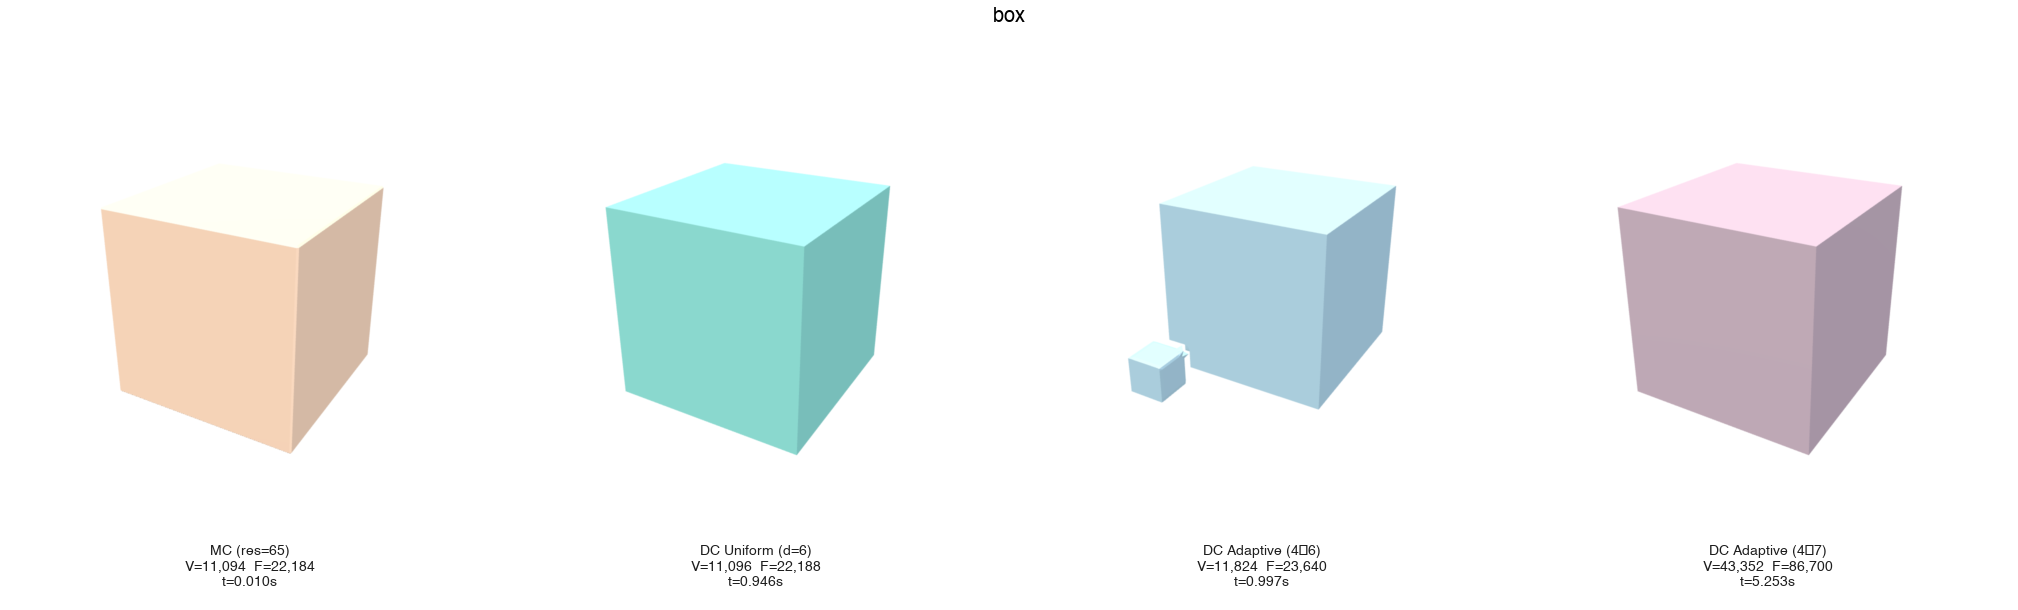
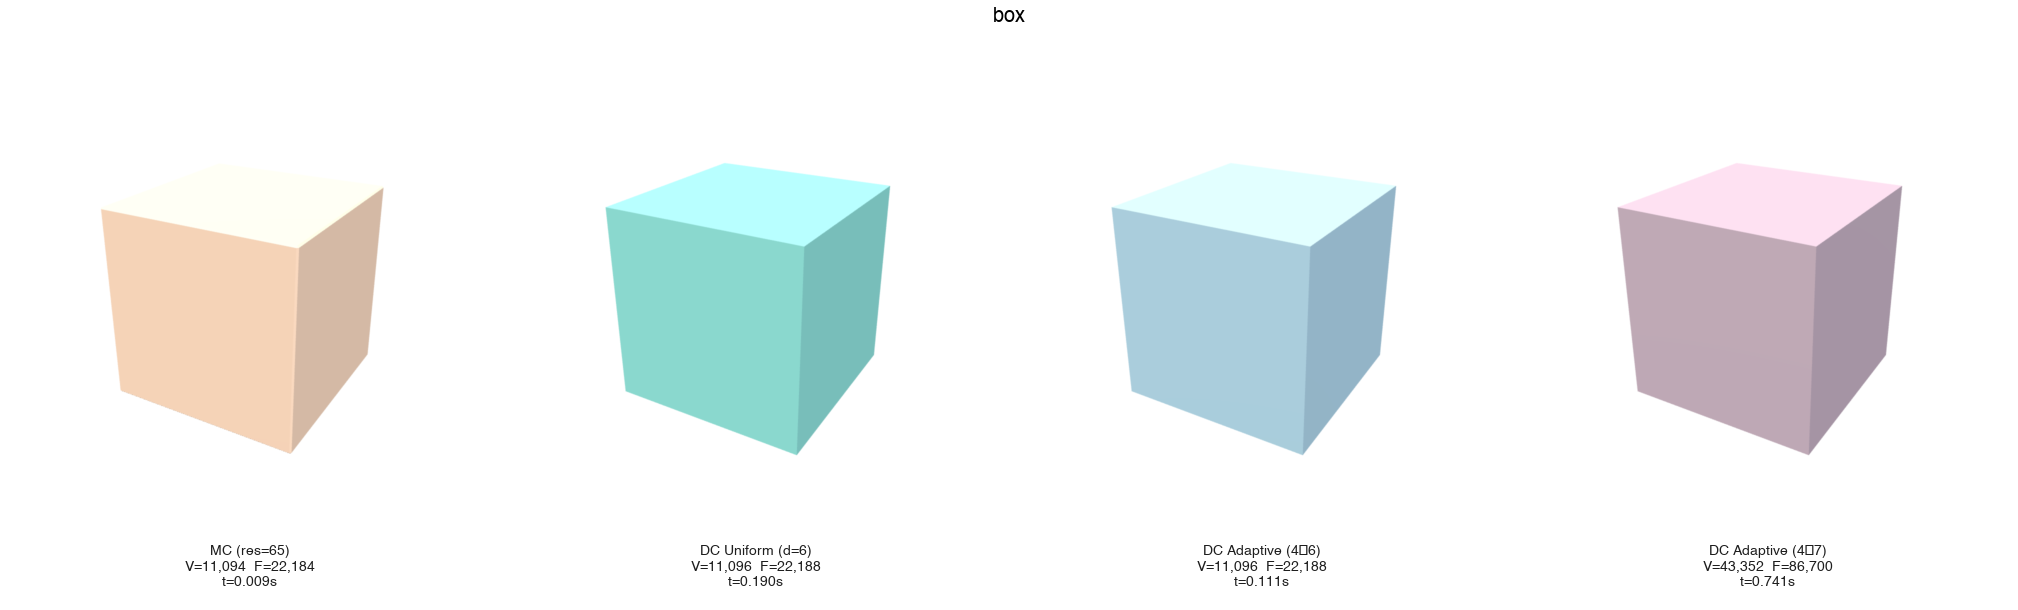
Update benchmark images and report with latest results

Changed region(s): [[0.5307, 0.2492, 0.6868, 0.7475], [0.5932, 0.9033, 0.6556, 0.9656], [0.8741, 0.9344, 0.9054, 0.9656]]

diff --git a/output/benchmark_report.md b/output/benchmark_report.md
@@ -5,50 +5,50 @@
 
 | Shape | Method | V | F | Time (s) | Manifold | Watertight | Euler | Mean SDF Err | Min∠ Mean | Min∠ P5 |
 |-------|--------|--:|--:|--------:|:--------:|:----------:|-----:|-----------:|--------:|------:|
-| sphere | MC (res=65) | 8,598 | 17,192 | 0.007 | ✓ | ✓ | 2 | 9.63e-05 | 31.6° | 5.7° |
-|  | DC Uniform (d=6) | 8,600 | 17,196 | 0.717 | ✓ | ✓ | 2 | 4.57e-17 | 45.2° | 33.3° |
-|  | DC Adaptive (4→6) | 536 | 1,068 | 0.051 | ✓ | ✓ | 2 | 8.85e-05 | 43.7° | 30.5° |
-|  | DC Adaptive (4→7) | 536 | 1,068 | 0.048 | ✓ | ✓ | 2 | 8.85e-05 | 43.7° | 30.5° |
+| sphere | MC (res=65) | 8,598 | 17,192 | 0.006 | ✓ | ✓ | 2 | 9.63e-05 | 31.6° | 5.7° |
+|  | DC Uniform (d=6) | 8,600 | 17,196 | 0.083 | ✓ | ✓ | 2 | 4.57e-17 | 45.2° | 33.3° |
+|  | DC Adaptive (4→6) | 536 | 1,068 | 0.002 | ✓ | ✓ | 2 | 8.85e-05 | 43.7° | 30.5° |
+|  | DC Adaptive (4→7) | 536 | 1,068 | 0.002 | ✓ | ✓ | 2 | 8.85e-05 | 43.7° | 30.5° |
 | torus | MC (res=65) | 6,448 | 12,896 | 0.004 | ✓ | ✓ | 0 | 2.34e-04 | 32.0° | 3.7° |
-|  | DC Uniform (d=6) | 6,448 | 12,896 | 0.867 | ✓ | ✓ | 0 | 1.55e-05 | 41.0° | 26.2° |
-|  | DC Adaptive (4→6) | 6,448 | 12,896 | 0.387 | ✓ | ✓ | 0 | 1.55e-05 | 41.0° | 26.2° |
-|  | DC Adaptive (4→7) | 6,448 | 12,896 | 0.387 | ✓ | ✓ | 0 | 1.55e-05 | 41.0° | 26.2° |
+|  | DC Uniform (d=6) | 6,448 | 12,896 | 0.133 | ✓ | ✓ | 0 | 1.55e-05 | 41.0° | 26.2° |
+|  | DC Adaptive (4→6) | 6,448 | 12,896 | 0.036 | ✓ | ✓ | 0 | 1.55e-05 | 41.0° | 26.2° |
+|  | DC Adaptive (4→7) | 6,448 | 12,896 | 0.036 | ✓ | ✓ | 0 | 1.55e-05 | 41.0° | 26.2° |
 
 ## Sharp Features
 
 | Shape | Method | V | F | Time (s) | Manifold | Watertight | Euler | Mean SDF Err | Min∠ Mean | Min∠ P5 |
 |-------|--------|--:|--:|--------:|:--------:|:----------:|-----:|-----------:|--------:|------:|
-| box | MC (res=65) | 11,094 | 22,184 | 0.010 | ✓ | ✓ | 2 | 0.00e+00 | 44.1° | 45.0° |
-|  | DC Uniform (d=6) | 11,096 | 22,188 | 0.946 | ✓ | ✓ | 2 | 7.51e-10 | 44.5° | 39.8° |
-|  | DC Adaptive (4→6) | 11,824 | 23,640 | 0.997 | ✓ | ✓ | 4 | 2.04e-02 | 44.2° | 39.8° |
-|  | DC Adaptive (4→7) | 43,352 | 86,700 | 5.253 | ✓ | ✓ | 2 | 1.92e-10 | 44.8° | 45.0° |
+| box | MC (res=65) | 11,094 | 22,184 | 0.009 | ✓ | ✓ | 2 | 0.00e+00 | 44.1° | 45.0° |
+|  | DC Uniform (d=6) | 11,096 | 22,188 | 0.190 | ✓ | ✓ | 2 | 7.51e-10 | 44.5° | 39.8° |
+|  | DC Adaptive (4→6) | 11,096 | 22,188 | 0.111 | ✓ | ✓ | 2 | 7.51e-10 | 44.5° | 39.8° |
+|  | DC Adaptive (4→7) | 43,352 | 86,700 | 0.741 | ✓ | ✓ | 2 | 1.92e-10 | 44.8° | 45.0° |
 | chamfered_sphere | MC (res=65) | 7,062 | 14,120 | 0.012 | ✓ | ✓ | 2 | 2.58e-04 | 35.5° | 6.1° |
-|  | DC Uniform (d=6) | 7,064 | 14,124 | 0.969 | ✓ | ✓ | 2 | 3.42e-05 | 43.1° | 22.1° |
-|  | DC Adaptive (4→6) | 7,064 | 14,124 | 0.488 | ✓ | ✓ | 2 | 3.42e-05 | 43.1° | 22.1° |
-|  | DC Adaptive (4→7) | 27,656 | 55,308 | 2.356 | ✓ | ✓ | 2 | 4.58e-05 | 44.2° | 28.7° |
-| cylinder | MC (res=65) | 4,326 | 8,648 | 0.005 | ✓ | ✓ | 2 | 2.12e-04 | 34.9° | 4.1° |
-|  | DC Uniform (d=6) | 4,328 | 8,652 | 0.884 | ✓ | ✓ | 2 | 8.94e-05 | 38.1° | 27.2° |
-|  | DC Adaptive (4→6) | 4,328 | 8,652 | 0.335 | ✓ | ✓ | 2 | 8.94e-05 | 38.1° | 27.2° |
-|  | DC Adaptive (4→7) | 17,488 | 34,972 | 1.929 | ✓ | ✓ | 2 | 1.07e-05 | 38.3° | 28.5° |
-| mechanical_part | MC (res=65) | 4,334 | 8,680 | 0.020 | ✓ | ✓ | -6 | 3.25e-04 | 40.3° | 10.1° |
-|  | DC Uniform (d=6) | 4,328 | 8,668 | 0.990 | ✓ | ✓ | -6 | 5.65e-05 | 41.0° | 31.9° |
-|  | DC Adaptive (4→6) | 4,328 | 8,668 | 0.335 | ✓ | ✓ | -6 | 5.65e-05 | 41.0° | 31.9° |
-|  | DC Adaptive (4→7) | 19,336 | 38,684 | 1.918 | ✓ | ✓ | -6 | 9.51e-06 | 39.7° | 26.9° |
+|  | DC Uniform (d=6) | 7,064 | 14,124 | 0.182 | ✓ | ✓ | 2 | 3.42e-05 | 43.1° | 22.1° |
+|  | DC Adaptive (4→6) | 7,064 | 14,124 | 0.059 | ✓ | ✓ | 2 | 3.42e-05 | 43.1° | 22.1° |
+|  | DC Adaptive (4→7) | 27,656 | 55,308 | 0.322 | ✓ | ✓ | 2 | 4.58e-05 | 44.2° | 28.7° |
+| cylinder | MC (res=65) | 4,326 | 8,648 | 0.004 | ✓ | ✓ | 2 | 2.12e-04 | 34.9° | 4.1° |
+|  | DC Uniform (d=6) | 4,328 | 8,652 | 0.124 | ✓ | ✓ | 2 | 8.94e-05 | 38.1° | 27.2° |
+|  | DC Adaptive (4→6) | 4,328 | 8,652 | 0.031 | ✓ | ✓ | 2 | 8.94e-05 | 38.1° | 27.2° |
+|  | DC Adaptive (4→7) | 17,488 | 34,972 | 0.186 | ✓ | ✓ | 2 | 1.07e-05 | 38.3° | 28.5° |
+| mechanical_part | MC (res=65) | 4,334 | 8,680 | 0.021 | ✓ | ✓ | -6 | 3.25e-04 | 40.3° | 10.1° |
+|  | DC Uniform (d=6) | 4,328 | 8,668 | 0.237 | ✓ | ✓ | -6 | 5.65e-05 | 41.0° | 31.9° |
+|  | DC Adaptive (4→6) | 4,328 | 8,668 | 0.042 | ✓ | ✓ | -6 | 5.65e-05 | 41.0° | 31.9° |
+|  | DC Adaptive (4→7) | 19,336 | 38,684 | 0.246 | ✓ | ✓ | -6 | 9.51e-06 | 39.7° | 26.9° |
 
 ## Thin Features
 
 | Shape | Method | V | F | Time (s) | Manifold | Watertight | Euler | Mean SDF Err | Min∠ Mean | Min∠ P5 |
 |-------|--------|--:|--:|--------:|:--------:|:----------:|-----:|-----------:|--------:|------:|
-| thin_shell_hemi | MC (res=65) | 11,010 | 22,016 | 0.006 | ✓ | ✓ | 2 | 6.86e-05 | 31.4° | 1.5° |
-|  | DC Uniform (d=6) | 10,620 | 21,236 | 0.916 | ✓ | ✓ | 2 | 8.29e-09 | 44.2° | 30.5° |
-|  | DC Adaptive (4→6) | 10,620 | 21,236 | 0.627 | ✓ | ✓ | 2 | 8.29e-09 | 44.2° | 30.5° |
-|  | DC Adaptive (4→7) | 42,996 | 85,988 | 2.988 | ✓ | ✓ | 2 | 5.71e-13 | 43.7° | 30.8° |
+| thin_shell_hemi | MC (res=65) | 11,010 | 22,016 | 0.005 | ✓ | ✓ | 2 | 6.86e-05 | 31.4° | 1.5° |
+|  | DC Uniform (d=6) | 10,620 | 21,236 | 0.142 | ✓ | ✓ | 2 | 8.29e-09 | 44.2° | 30.5° |
+|  | DC Adaptive (4→6) | 10,620 | 21,236 | 0.054 | ✓ | ✓ | 2 | 8.29e-09 | 44.2° | 30.5° |
+|  | DC Adaptive (4→7) | 42,996 | 85,988 | 0.336 | ✓ | ✓ | 2 | 5.71e-13 | 43.7° | 30.8° |
 
 ## Complex Geometry (Mesh-based SDF)
 
 | Shape | Method | V | F | Time (s) | Manifold | Watertight | Euler | Mean SDF Err | Min∠ Mean | Min∠ P5 |
 |-------|--------|--:|--:|--------:|:--------:|:----------:|-----:|-----------:|--------:|------:|
-| simjeb_148 | MC (res=65) | 6,102 | 12,248 | 0.355 | ✓ | ✓ | -22 | 1.35e-03 | 34.6° | 6.3° |
-|  | DC Uniform (d=6) | 6,080 | 12,204 | 3.240 | ✓ | ✓ | -22 | 3.39e-04 | 33.1° | 8.3° |
-|  | DC Adaptive (4→6) | 6,080 | 12,204 | 2.947 | ✓ | ✓ | -22 | 3.39e-04 | 33.1° | 8.3° |
-|  | DC Adaptive (4→7) | 23,920 | 47,884 | 6.260 | ✓ | ✓ | -22 | 9.71e-05 | 36.6° | 12.8° |
+| simjeb_148 | MC (res=65) | 6,102 | 12,248 | 0.320 | ✓ | ✓ | -22 | 1.35e-03 | 34.6° | 6.3° |
+|  | DC Uniform (d=6) | 6,080 | 12,204 | 2.308 | ✓ | ✓ | -22 | 3.39e-04 | 33.1° | 8.3° |
+|  | DC Adaptive (4→6) | 6,080 | 12,204 | 2.466 | ✓ | ✓ | -22 | 3.39e-04 | 33.1° | 8.3° |
+|  | DC Adaptive (4→7) | 23,920 | 47,884 | 4.012 | ✓ | ✓ | -22 | 9.71e-05 | 36.6° | 12.8° |
